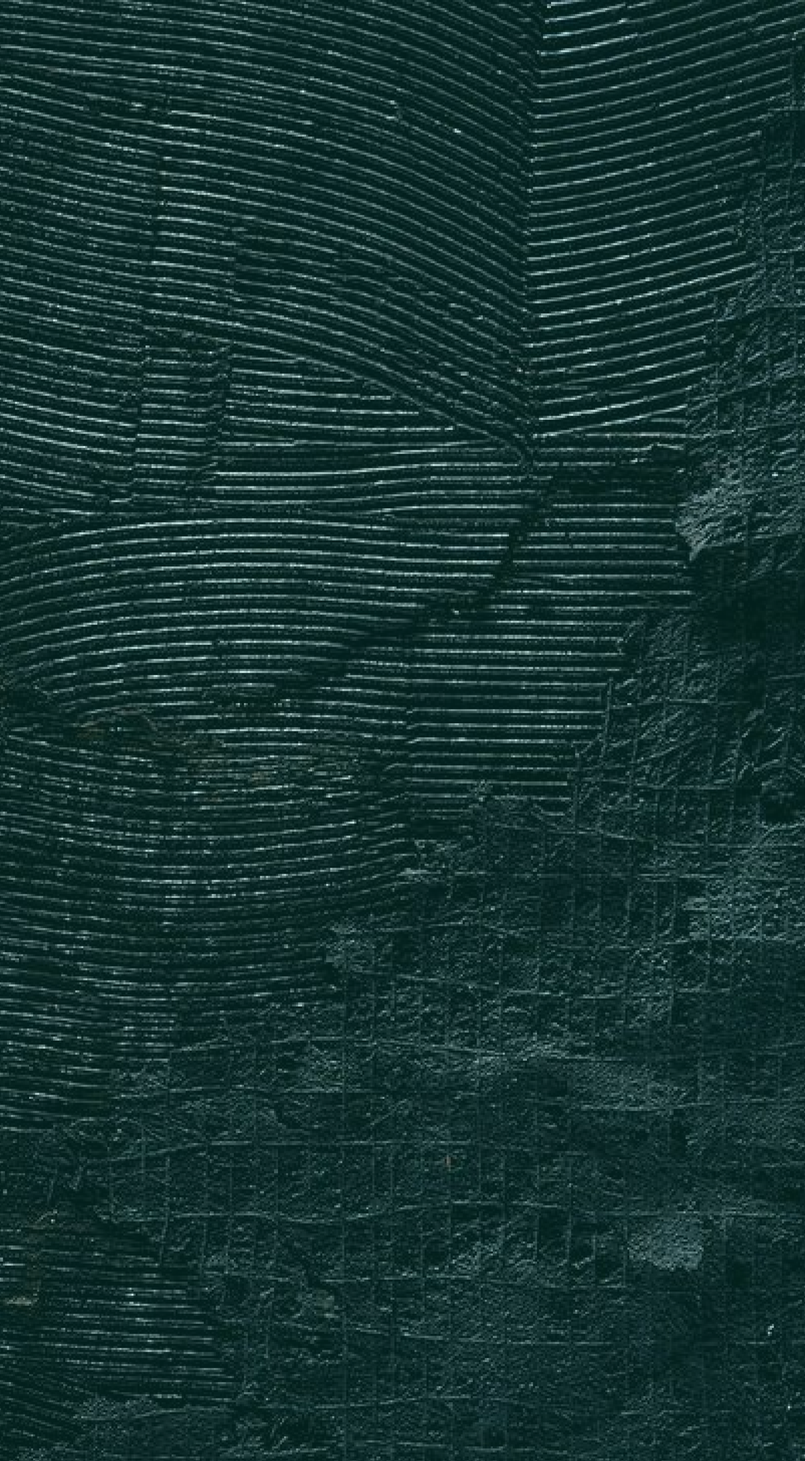
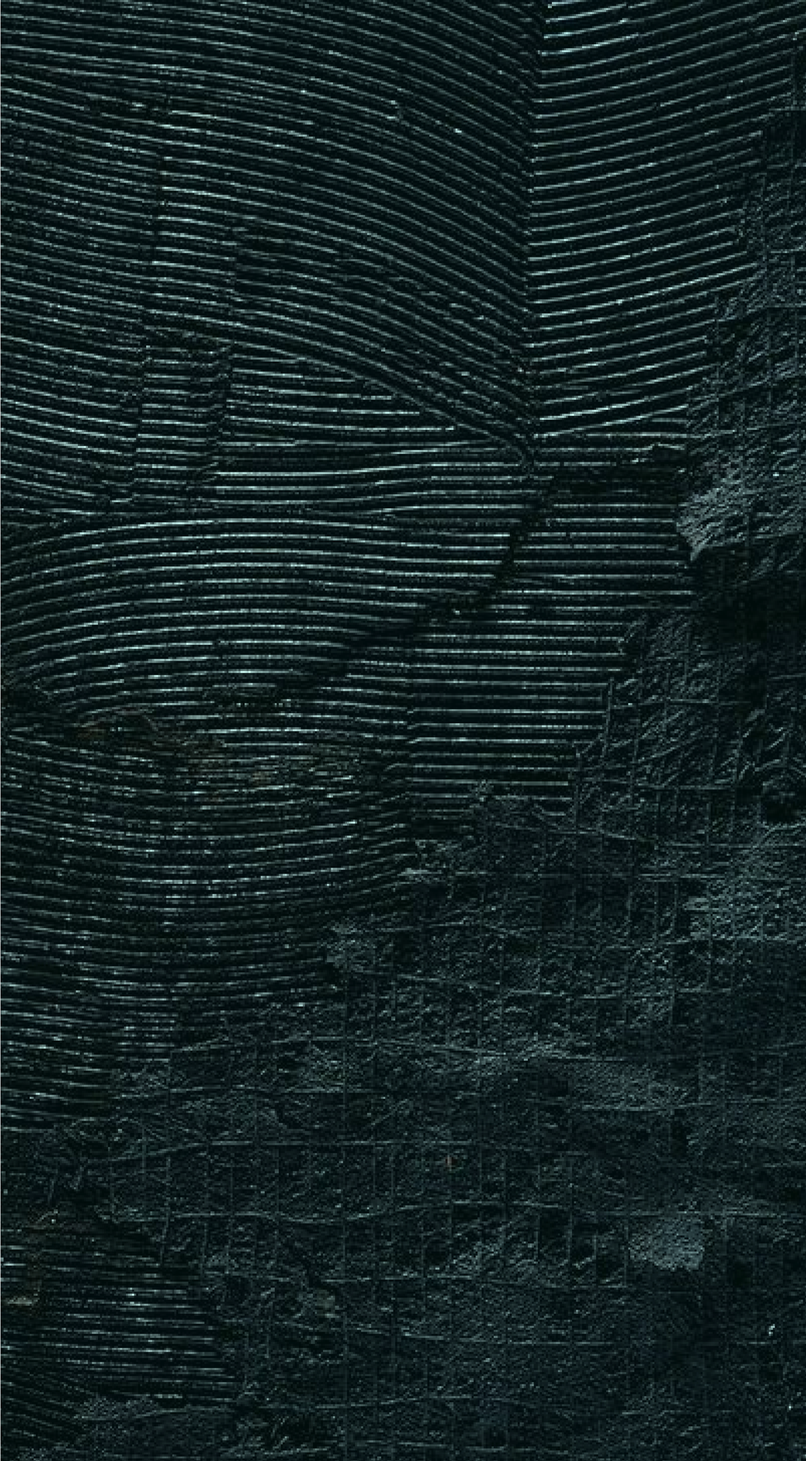
push lagi

Changed region(s): [[0.0, 0.9931, 0.0612, 1.0], [0.0, 0.2793, 0.0306, 0.3103], [0.0, 0.0621, 0.0306, 0.0931]]

diff --git a/client/src/pages/Themes/SubthemeOne.jsx b/client/src/pages/Themes/SubthemeOne.jsx
@@ -1,5 +1,6 @@
 import Footer from '../../components/Footer';
 import { useNavigate } from 'react-router-dom';
+import { motion } from 'framer-motion'
 
 {/* Slider Dot */}
 import slideDotOne from '../../assets/WebComponents/slide-dot-1.svg'
@@ -14,15 +15,17 @@ export default function SubthemeOne() {
   {/* --------------------------- */}
   return (
     <section className='bg-greenOutlineBG bg-full bg-no-repeat bg-center overflow-hidden'>
-      <div className='flex flex-col items-center justify-around pt-[85px] px-7'>
-        <img src={slideDotOne} className='w-[24px] mb-1'></img>
-        <h4 className='font-monts text-white font-[400] text-[14px] tracking-widest'>1ST SUBTHEME</h4>
-        <img src={subthemeOne} className='w-full'></img>
-      </div>
-      <div className='mt-10 px-7'>
-        <p className='text-white font-[200] font-monts text-justify text-xs'>
-        Power up into the parallels between understanding your vehicle&apos;s engine and mastering the engine of life itself. Learn how to ignite your passions, fuel your ambitions, and harness your inner power to propel yourself towards success. Discover the key principles that drive both engines and lives, and unlock the secrets to maximising your potential on the journey of life
-        </p>
+      <div className='min-h-[50vh] flex flex-col'>
+        <div className='flex flex-col items-center justify-around pt-[85px] px-7'>
+          <motion.img initial={{ opacity:0, y:-20 }} whileInView={{ opacity:1, y:0 }} transition={{ duration:.5, ease:"easeInOut" }} src={slideDotOne} className='w-[24px] mb-1'></motion.img>
+          <motion.h4 initial={{ opacity:0, y:-20 }} whileInView={{ opacity:1, y:0 }} transition={{ duration:.5, ease:"easeInOut" }} className='font-monts text-white font-[400] text-[14px] tracking-widest'>1ST SUBTHEME</motion.h4>
+          <motion.img initial={{ opacity:0, y:-20 }} whileInView={{ opacity:1, y:0 }} transition={{ duration:.5, ease:"easeInOut" }} src={subthemeOne} className='w-full'></motion.img>
+        </div>
+        <div className='mt-10 px-7'>
+          <p className='text-white font-[200] font-monts text-justify text-xs'>
+          Power up into the parallels between understanding your vehicle&apos;s engine and mastering the engine of life itself. Learn how to ignite your passions, fuel your ambitions, and harness your inner power to propel yourself towards success. Discover the key principles that drive both engines and lives, and unlock the secrets to maximising your potential on the journey of life
+          </p>
+        </div>
       </div>
       <div className='bg-intersectionFade bg-center bg-cover bg-no-repeat px-7 mt-12 h-[340px] flex flex-col justify-between'>
         <div className='flex w-screen items-end'>

diff --git a/client/src/pages/Themes/Subthemes.jsx b/client/src/pages/Themes/Subthemes.jsx
@@ -1,0 +1,5 @@
+import { motion } from 'framer-motion'
+
+export default function SubthemesContainer() {
+  
+}
